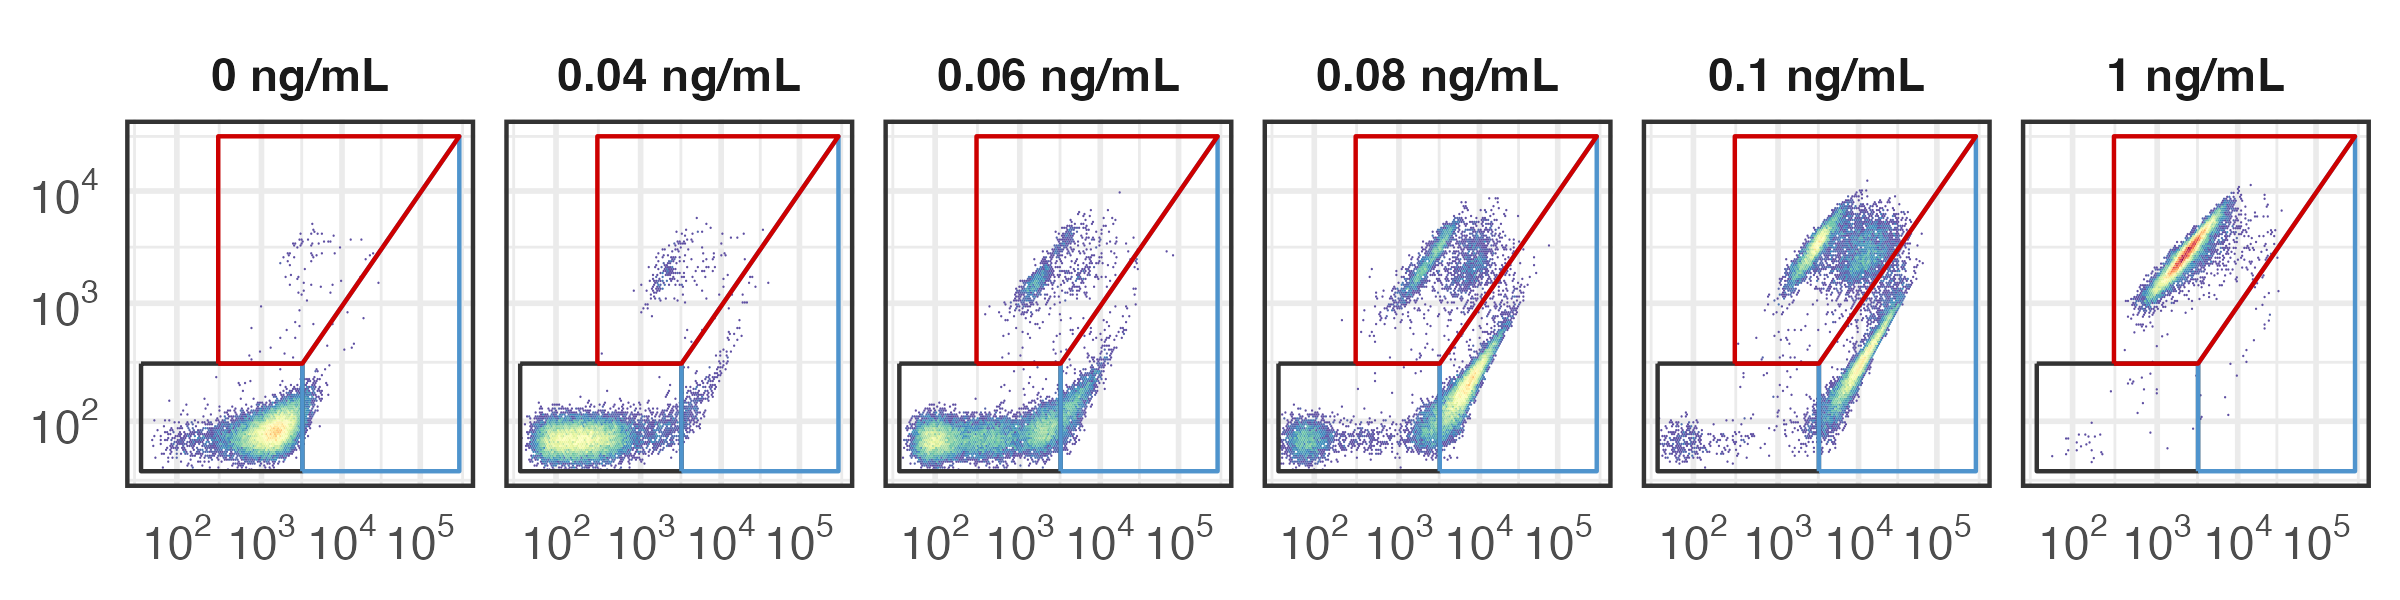
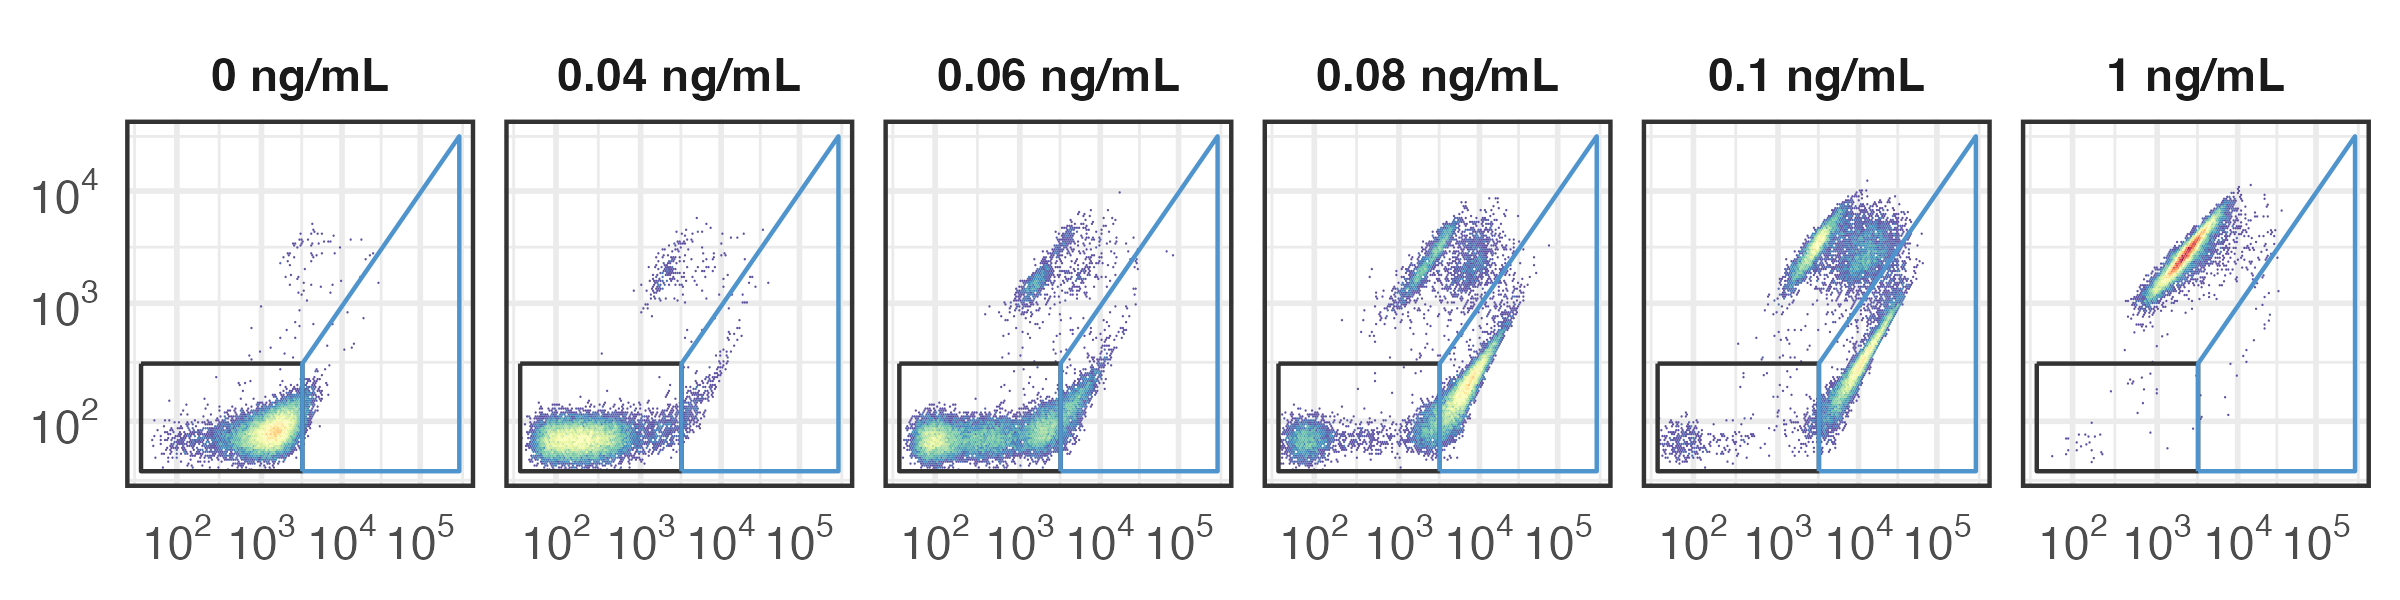
wrapped up AmpB analysis

diff --git a/30-Extend-across-species-stress/32-apply-to-AmpB/output/20250402-Cg-AmpB-CFU-FGL-stat-test-results.md b/30-Extend-across-species-stress/32-apply-to-AmpB/output/20250402-Cg-AmpB-CFU-FGL-stat-test-results.md
@@ -1,0 +1,118 @@
+### Correlation coefficients
+Between CFU % viable and FGL % live
+```r
+tmp <- cfu_dye %>% 
+  select(-p_intermediate, -p_dead) %>% # remove unwanted variables
+  pivot_wider(names_from = Method, values_from = p_live) %>% 
+  dplyr::filter(!Treatment %in% c("0", "0.02")) # remove mock and 0.02 ng/mL
+
+corr_p_live = c(
+  Pearson = cor(tmp$CFU, tmp$FungaLight, method = "pearson"),
+  Spearmann = cor(tmp$CFU, tmp$FungaLight, method = "spearman")
+)
+
+print(corr_p_live)
+```
+
+```
+  Pearson Spearmann 
+0.9385423 0.9826485
+```
+
+### CFU
+
+``` r
+tmp <- aov(CFU ~ Treatment, data = cfu_calc)
+TukeyHSD(tmp)
+```
+
+```
+  Tukey multiple comparisons of means
+    95% family-wise confidence level
+
+Fit: aov(formula = CFU ~ Treatment, data = dplyr::filter(cfu_calc, Treatment != "0.02"))
+
+$Treatment
+            diff        lwr        upr     p adj
+0.04-0    -20150  -45825.17   5525.174 0.1775675
+0.06-0    -44350  -70025.17 -18674.826 0.0004012
+0.08-0    -65175  -90850.17 -39499.826 0.0000029
+0.1-0     -74250  -99925.17 -48574.826 0.0000004
+1-0       -84750 -110425.17 -59074.826 0.0000001
+0.06-0.04 -24200  -49875.17   1475.174 0.0713736
+0.08-0.04 -45025  -70700.17 -19349.826 0.0003377
+0.1-0.04  -54100  -79775.17 -28424.826 0.0000359
+1-0.04    -64600  -90275.17 -38924.826 0.0000032
+0.08-0.06 -20825  -46500.17   4850.174 0.1537928
+0.1-0.06  -29900  -55575.17  -4224.826 0.0172606
+1-0.06    -40400  -66075.17 -14724.826 0.0011115
+0.1-0.08   -9075  -34750.17  16600.174 0.8654365
+1-0.08    -19575  -45250.17   6100.174 0.2000838
+1-0.1     -10500  -36175.17  15175.174 0.7814841
+```
+
+### FGL/p_live
+``` r
+tmp <- dye_based %>% 
+  dplyr::filter(Treatment != "0.02") %>%
+  aov(p_live ~ fct_inseq(Treatment), data = .)
+TukeyHSD(tmp)
+```
+```
+  Tukey multiple comparisons of means
+    95% family-wise confidence level
+
+Fit: aov(formula = p_live ~ fct_inseq(Treatment), data = .)
+
+$`fct_inseq(Treatment)`
+                 diff        lwr          upr     p adj
+0.04-0     0.05436504 -0.4574335  0.566163557 0.9993119
+0.06-0    -0.14044338 -0.6522419  0.371355137 0.9484621
+0.08-0    -0.46100027 -0.9727988  0.050798245 0.0918230
+0.1-0     -0.57648415 -1.0882827 -0.064685630 0.0221875
+1-0       -0.91551550 -1.4273140 -0.403716986 0.0002685
+0.06-0.04 -0.19480842 -0.7066069  0.316990097 0.8266304
+0.08-0.04 -0.51536531 -1.0271638 -0.003566794 0.0478556
+0.1-0.04  -0.63084919 -1.1426477 -0.119050669 0.0109808
+1-0.04    -0.96988054 -1.4816791 -0.458082025 0.0001354
+0.08-0.06 -0.32055689 -0.8323554  0.191241626 0.3847154
+0.1-0.06  -0.43604077 -0.9478393  0.075757751 0.1221186
+1-0.06    -0.77507212 -1.2868706 -0.263273605 0.0016511
+0.1-0.08  -0.11548387 -0.6272824  0.396314643 0.9772947
+1-0.08    -0.45451523 -0.9663137  0.057283287 0.0989795
+1-0.1     -0.33903136 -0.8508299  0.172767162 0.3277756
+
+```
+
+### FGL/p_intermediate
+``` r
+tmp <- dye_based %>% 
+  dplyr::filter(Treatment != "0.02") %>%
+  aov(p_intermediate ~ fct_inseq(Treatment), data = .)
+TukeyHSD(tmp)
+```
+
+```
+  Tukey multiple comparisons of means
+    95% family-wise confidence level
+
+Fit: aov(formula = p_intermediate ~ fct_inseq(Treatment), data = .)
+
+$`fct_inseq(Treatment)`
+                  diff          lwr          upr     p adj
+0.04-0    -0.051249905 -0.434932925  0.332433116 0.9979336
+0.06-0     0.100975628 -0.282707392  0.484658649 0.9565319
+0.08-0     0.341893804 -0.041789216  0.725576825 0.0972365
+0.1-0      0.355570561 -0.028112460  0.739253581 0.0785708
+1-0       -0.045399942 -0.429082962  0.338283079 0.9988420
+0.06-0.04  0.152225533 -0.231457488  0.535908553 0.8014802
+0.08-0.04  0.393143709  0.009460688  0.776826729 0.0427921
+0.1-0.04   0.406820465  0.023137445  0.790503486 0.0340779
+1-0.04     0.005849963 -0.377833058  0.389532983 1.0000000
+0.08-0.06  0.240918176 -0.142764844  0.624601197 0.3821201
+0.1-0.06   0.254594933 -0.129088088  0.638277953 0.3260907
+1-0.06    -0.146375570 -0.530058591  0.237307450 0.8253167
+0.1-0.08   0.013676757 -0.370006264  0.397359777 0.9999969
+1-0.08    -0.387293746 -0.770976767 -0.003610726 0.0471249
+1-0.1     -0.400970503 -0.784653523 -0.017287482 0.0375776
+```
